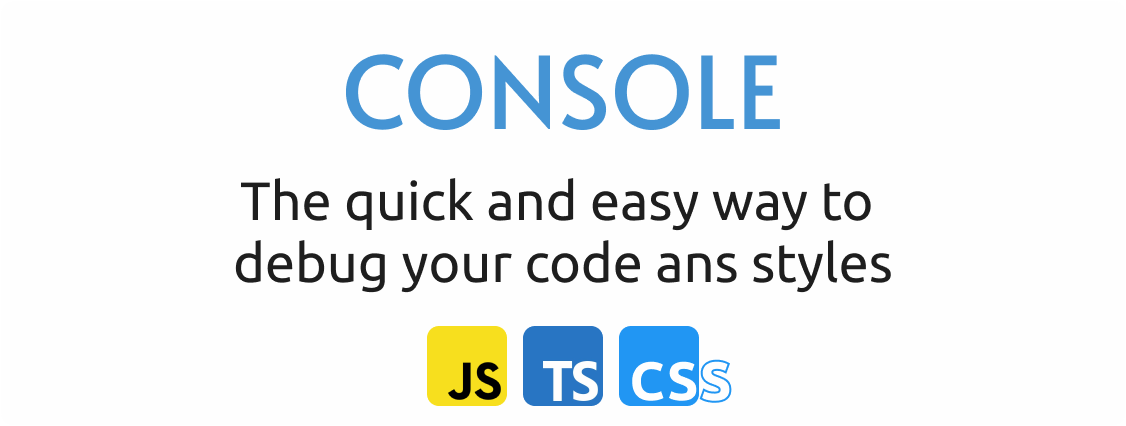
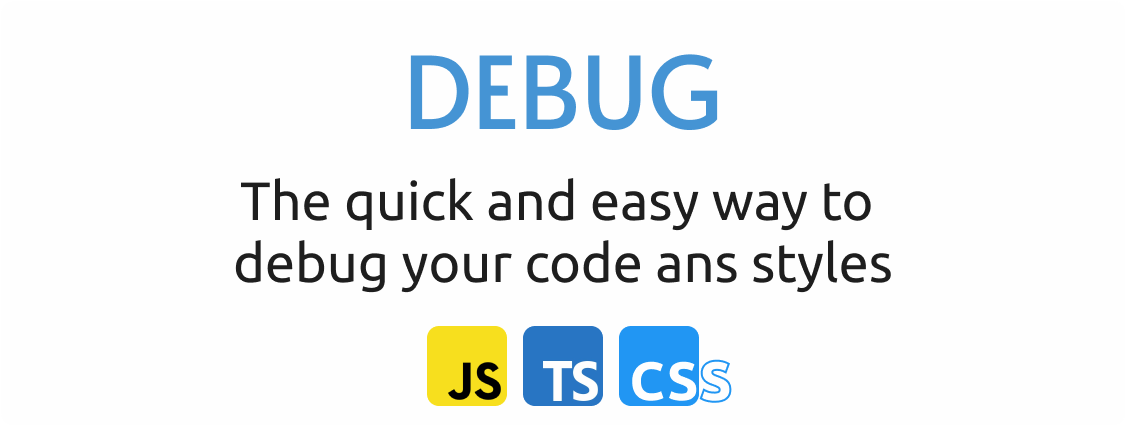
rename project

Changed region(s): [[0.2798, 0.1221, 0.7149, 0.3052]]

diff --git a/CHANGELOG.md b/CHANGELOG.md
@@ -13,4 +13,4 @@ Security    to invite users to upgrade in case of vulnerabilities.
 
 ### Added
 
-- Console snippets
+- Debug snippets
